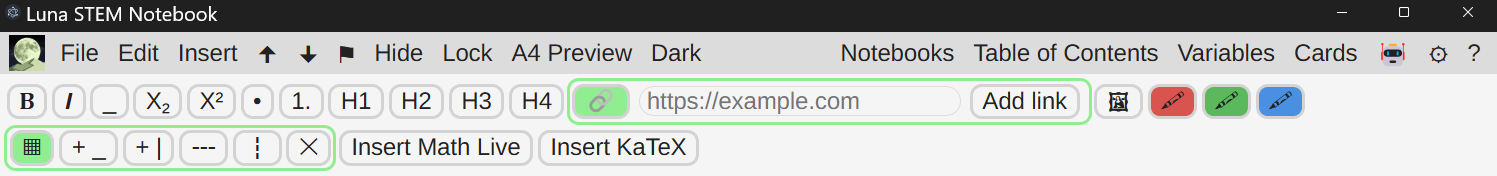
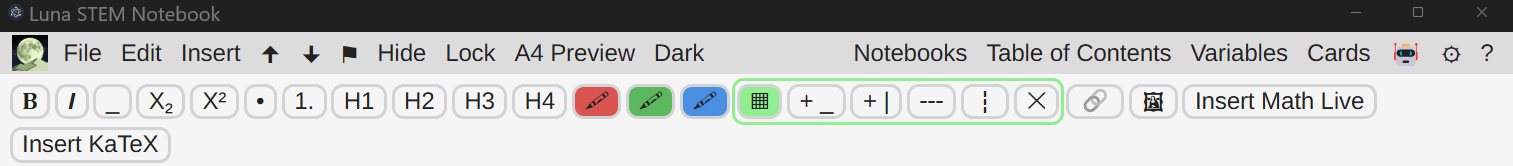
Refactor code structure for improved readability and maintainability

diff --git a/src/renderer/src/components/toolbars/TextCellToolbar.vue b/src/renderer/src/components/toolbars/TextCellToolbar.vue
@@ -123,6 +123,7 @@
       :disabled="!activeTextEditor || isCellLockedComputed || isCellHiddenComputed"
       @click="toggleHeading(4)"
     ></button>
+
     <!-- REMOVE HEADING 5 
     <button
       class="top-toolbar__button top-toolbar__button--icon icon-heading-5"
@@ -134,89 +135,7 @@
       @click="toggleHeading(5)"
     ></button>
     -->
-    <!-- INSERT / EDIT LINK -->
-    <div
-      class="button-row-flex-wrap-base-inline"
-      :class="{
-        'button-row-flex-wrap-base-inline button-row-flex-wrap-base-inline--active':
-          linkInputVisible
-      }"
-    >
-      <button
-        ref="linkButtonEl"
-        class="top-toolbar__button top-toolbar__button--icon icon-link top-toolbar__button--transparent-when-disabled"
-        type="button"
-        :class="{ 'top-toolbar__button--active': isLinkActive || linkInputVisible }"
-        :title="
-          linkInputVisible
-            ? 'Close link editor'
-            : isLinkActive
-              ? 'Edit or remove link'
-              : 'Insert link'
-        "
-        :aria-label="
-          linkInputVisible
-            ? 'Close link editor'
-            : isLinkActive
-              ? 'Edit or remove link'
-              : 'Insert link'
-        "
-        :aria-pressed="isLinkActive || linkInputVisible ? 'true' : 'false'"
-        :aria-expanded="linkInputVisible ? 'true' : 'false'"
-        :disabled="!activeTextEditor || isCellLockedComputed || isCellHiddenComputed"
-        @click="onClickLinkButton"
-      ></button>
-      <div v-if="linkInputVisible" class="inline-link-editor">
-        <input
-          ref="linkInputEl"
-          v-model="linkUrlInput"
-          type="text"
-          class="inline-link-editor__input"
-          placeholder="https://example.com"
-          @keyup.enter.prevent="applyLinkFromInput"
-          @keyup.esc.prevent="cancelLinkUI"
-        />
-        <button
-          type="button"
-          class="top-toolbar__button top-toolbar__button--transparent-when-disabled"
-          title="Apply link"
-          @click="applyLinkFromInput"
-        >
-          {{ isLinkActive ? 'Update link' : 'Add link' }}
-        </button>
-        <button
-          v-if="isLinkActive"
-          type="button"
-          class="top-toolbar__button top-toolbar__button--transparent-when-disabled"
-          title="Cancel link editing"
-          @click="removeLinkViaUI"
-        >
-          Remove link
-        </button>
-      </div>
-    </div>
-    <!-- button placeholder for insert image-->
-    <button
-      class="top-toolbar__button top-toolbar__button--icon icon-image top-toolbar__button--transparent-when-disabled"
-      type="button"
-      title="Insert image (coming soon)"
-      aria-label="Insert image (coming soon)"
-      :disabled="!activeTextEditor || isCellLockedComputed || isCellHiddenComputed"
-      @click="() => {}"
-    ></button>
 
-    <!-- Highlight buttons: fixed four tokens; background set by resolver -->
-    <!-- ORANGE REMOVED 
-    <button
-      class="top-toolbar__button top-toolbar__button--icon icon-highlight-pen"
-      type="button"
-      :style="{ backgroundColor: resolveHighlightColor('orange-highlighting', isDarkMode) }"
-      :class="{ 'is-active': isHighlightActive('orange-highlighting') }"
-      title="Highlight Orange"
-      aria-label="Highlight Orange"
-      @click="toggleHighlight('orange-highlighting')"
-    ></button>
-    -->
     <button
       type="button"
       :style="{ backgroundColor: resolveHighlightColor('red-highlighting', isDarkMode) }"
@@ -267,6 +186,19 @@
       :disabled="!activeTextEditor || isCellLockedComputed || isCellHiddenComputed"
       @click="toggleHighlight('blue-highlighting')"
     ></button>
+
+    <!-- Highlight buttons: fixed four tokens; background set by resolver -->
+    <!-- ORANGE REMOVED 
+    <button
+      class="top-toolbar__button top-toolbar__button--icon icon-highlight-pen"
+      type="button"
+      :style="{ backgroundColor: resolveHighlightColor('orange-highlighting', isDarkMode) }"
+      :class="{ 'is-active': isHighlightActive('orange-highlighting') }"
+      title="Highlight Orange"
+      aria-label="Highlight Orange"
+      @click="toggleHighlight('orange-highlighting')"
+    ></button>
+    -->
 
     <!-- Table controls cluster (mirrors link cluster pattern). Shows only insert button when not inside a table; reveals row/column/delete controls and active border when within a table -->
     <div
@@ -354,7 +286,76 @@
       </template>
     </div>
 
-    <!-- visual separator -->
+    <!-- INSERT / EDIT LINK -->
+    <div
+      class="button-row-flex-wrap-base-inline"
+      :class="{
+        'button-row-flex-wrap-base-inline button-row-flex-wrap-base-inline--active':
+          linkInputVisible
+      }"
+    >
+      <button
+        ref="linkButtonEl"
+        class="top-toolbar__button top-toolbar__button--icon icon-link top-toolbar__button--transparent-when-disabled"
+        type="button"
+        :class="{ 'top-toolbar__button--active': isLinkActive || linkInputVisible }"
+        :title="
+          linkInputVisible
+            ? 'Close link editor'
+            : isLinkActive
+              ? 'Edit or remove link'
+              : 'Insert link'
+        "
+        :aria-label="
+          linkInputVisible
+            ? 'Close link editor'
+            : isLinkActive
+              ? 'Edit or remove link'
+              : 'Insert link'
+        "
+        :aria-pressed="isLinkActive || linkInputVisible ? 'true' : 'false'"
+        :aria-expanded="linkInputVisible ? 'true' : 'false'"
+        :disabled="!activeTextEditor || isCellLockedComputed || isCellHiddenComputed"
+        @click="onClickLinkButton"
+      ></button>
+      <div v-if="linkInputVisible" class="inline-link-editor">
+        <input
+          ref="linkInputEl"
+          v-model="linkUrlInput"
+          type="text"
+          class="inline-link-editor__input"
+          placeholder="https://example.com"
+          @keyup.enter.prevent="applyLinkFromInput"
+          @keyup.esc.prevent="cancelLinkUI"
+        />
+        <button
+          type="button"
+          class="top-toolbar__button top-toolbar__button--transparent-when-disabled"
+          title="Apply link"
+          @click="applyLinkFromInput"
+        >
+          {{ isLinkActive ? 'Update link' : 'Add link' }}
+        </button>
+        <button
+          v-if="isLinkActive"
+          type="button"
+          class="top-toolbar__button top-toolbar__button--transparent-when-disabled"
+          title="Cancel link editing"
+          @click="removeLinkViaUI"
+        >
+          Remove link
+        </button>
+      </div>
+    </div>
+    <!-- button placeholder for insert image-->
+    <button
+      class="top-toolbar__button top-toolbar__button--icon icon-image top-toolbar__button--transparent-when-disabled"
+      type="button"
+      title="Insert image (coming soon)"
+      aria-label="Insert image (coming soon)"
+      :disabled="!activeTextEditor || isCellLockedComputed || isCellHiddenComputed"
+      @click="() => {}"
+    ></button>
 
     <!-- Math (placeholder) -->
     <button

diff --git a/src/renderer/src/components/sidepanel/settings-components/LLMAssistantSettingsPanel.vue b/src/renderer/src/components/sidepanel/settings-components/LLMAssistantSettingsPanel.vue
@@ -67,14 +67,18 @@
       <ImplementedMark :implemented="false" />
     </div>
     <hr />
-    <p>When test connection is clicked and connectionFlag is true, the LLM assistant chat will be
-    enabled in the LLM sidepanel. Luna then runs "ollama list" command in the background and a list of
-    models is fetched to populate the dropdown list of available models in the LLM assistant chat
-    sidepanel.</p>
+    <p>
+      When test connection is clicked and connectionFlag is true, the LLM assistant chat will be
+      enabled in the LLM sidepanel. Luna then runs "ollama list" command in the background and a
+      list of models is fetched to populate the dropdown list of available models in the LLM
+      assistant chat sidepanel.
+    </p>
 
-    <p>We may keep the run command as a fallback command if the user has a custom setup.
-    If run command field is empty, we assume "ollama run --model--" where model is selected in the chat
-    sidepanel.</p>
+    <p>
+      We may keep the run command as a fallback command if the user has a custom setup. If run
+      command field is empty, we assume "ollama run --model--" where model is selected in the chat
+      sidepanel.
+    </p>
     <p>Dev check for reactivity run Command Field: {{ runCommandField }}</p>
     <p>Dev check for reactivity server Path Field: {{ serverPathField }}</p>
   </div>

diff --git a/src/renderer/src/css/main-imports-this-css/button-row-flex-wrap-base.css b/src/renderer/src/css/main-imports-this-css/button-row-flex-wrap-base.css
@@ -49,7 +49,7 @@ No padding, gap, or margin defined here; these should be set in design.css
   width: auto; /* shrink to fit content */
   height: fit-content;
   box-sizing: border-box;
-  border: solid 2px transparent;
+  border: solid 2px 0 2px 0 transparent;
  }
 
 .button-row-flex-wrap-base-inline--active

diff --git a/README.md b/README.md
@@ -181,6 +181,9 @@ Screenshots below show the link cluster and the insert table cluster toggled on 
 <p align="center">
   <img src="./src/development-screenshots/Luna5-2025-09-29-2.png" alt="" width="900" /> 
 </p>
+<p align="center">
+  <img src="./src/development-screenshots/Luna5-2025-09-29-3.png" alt="" width="900" /> 
+</p>
 
 
 **2025-09-28**
